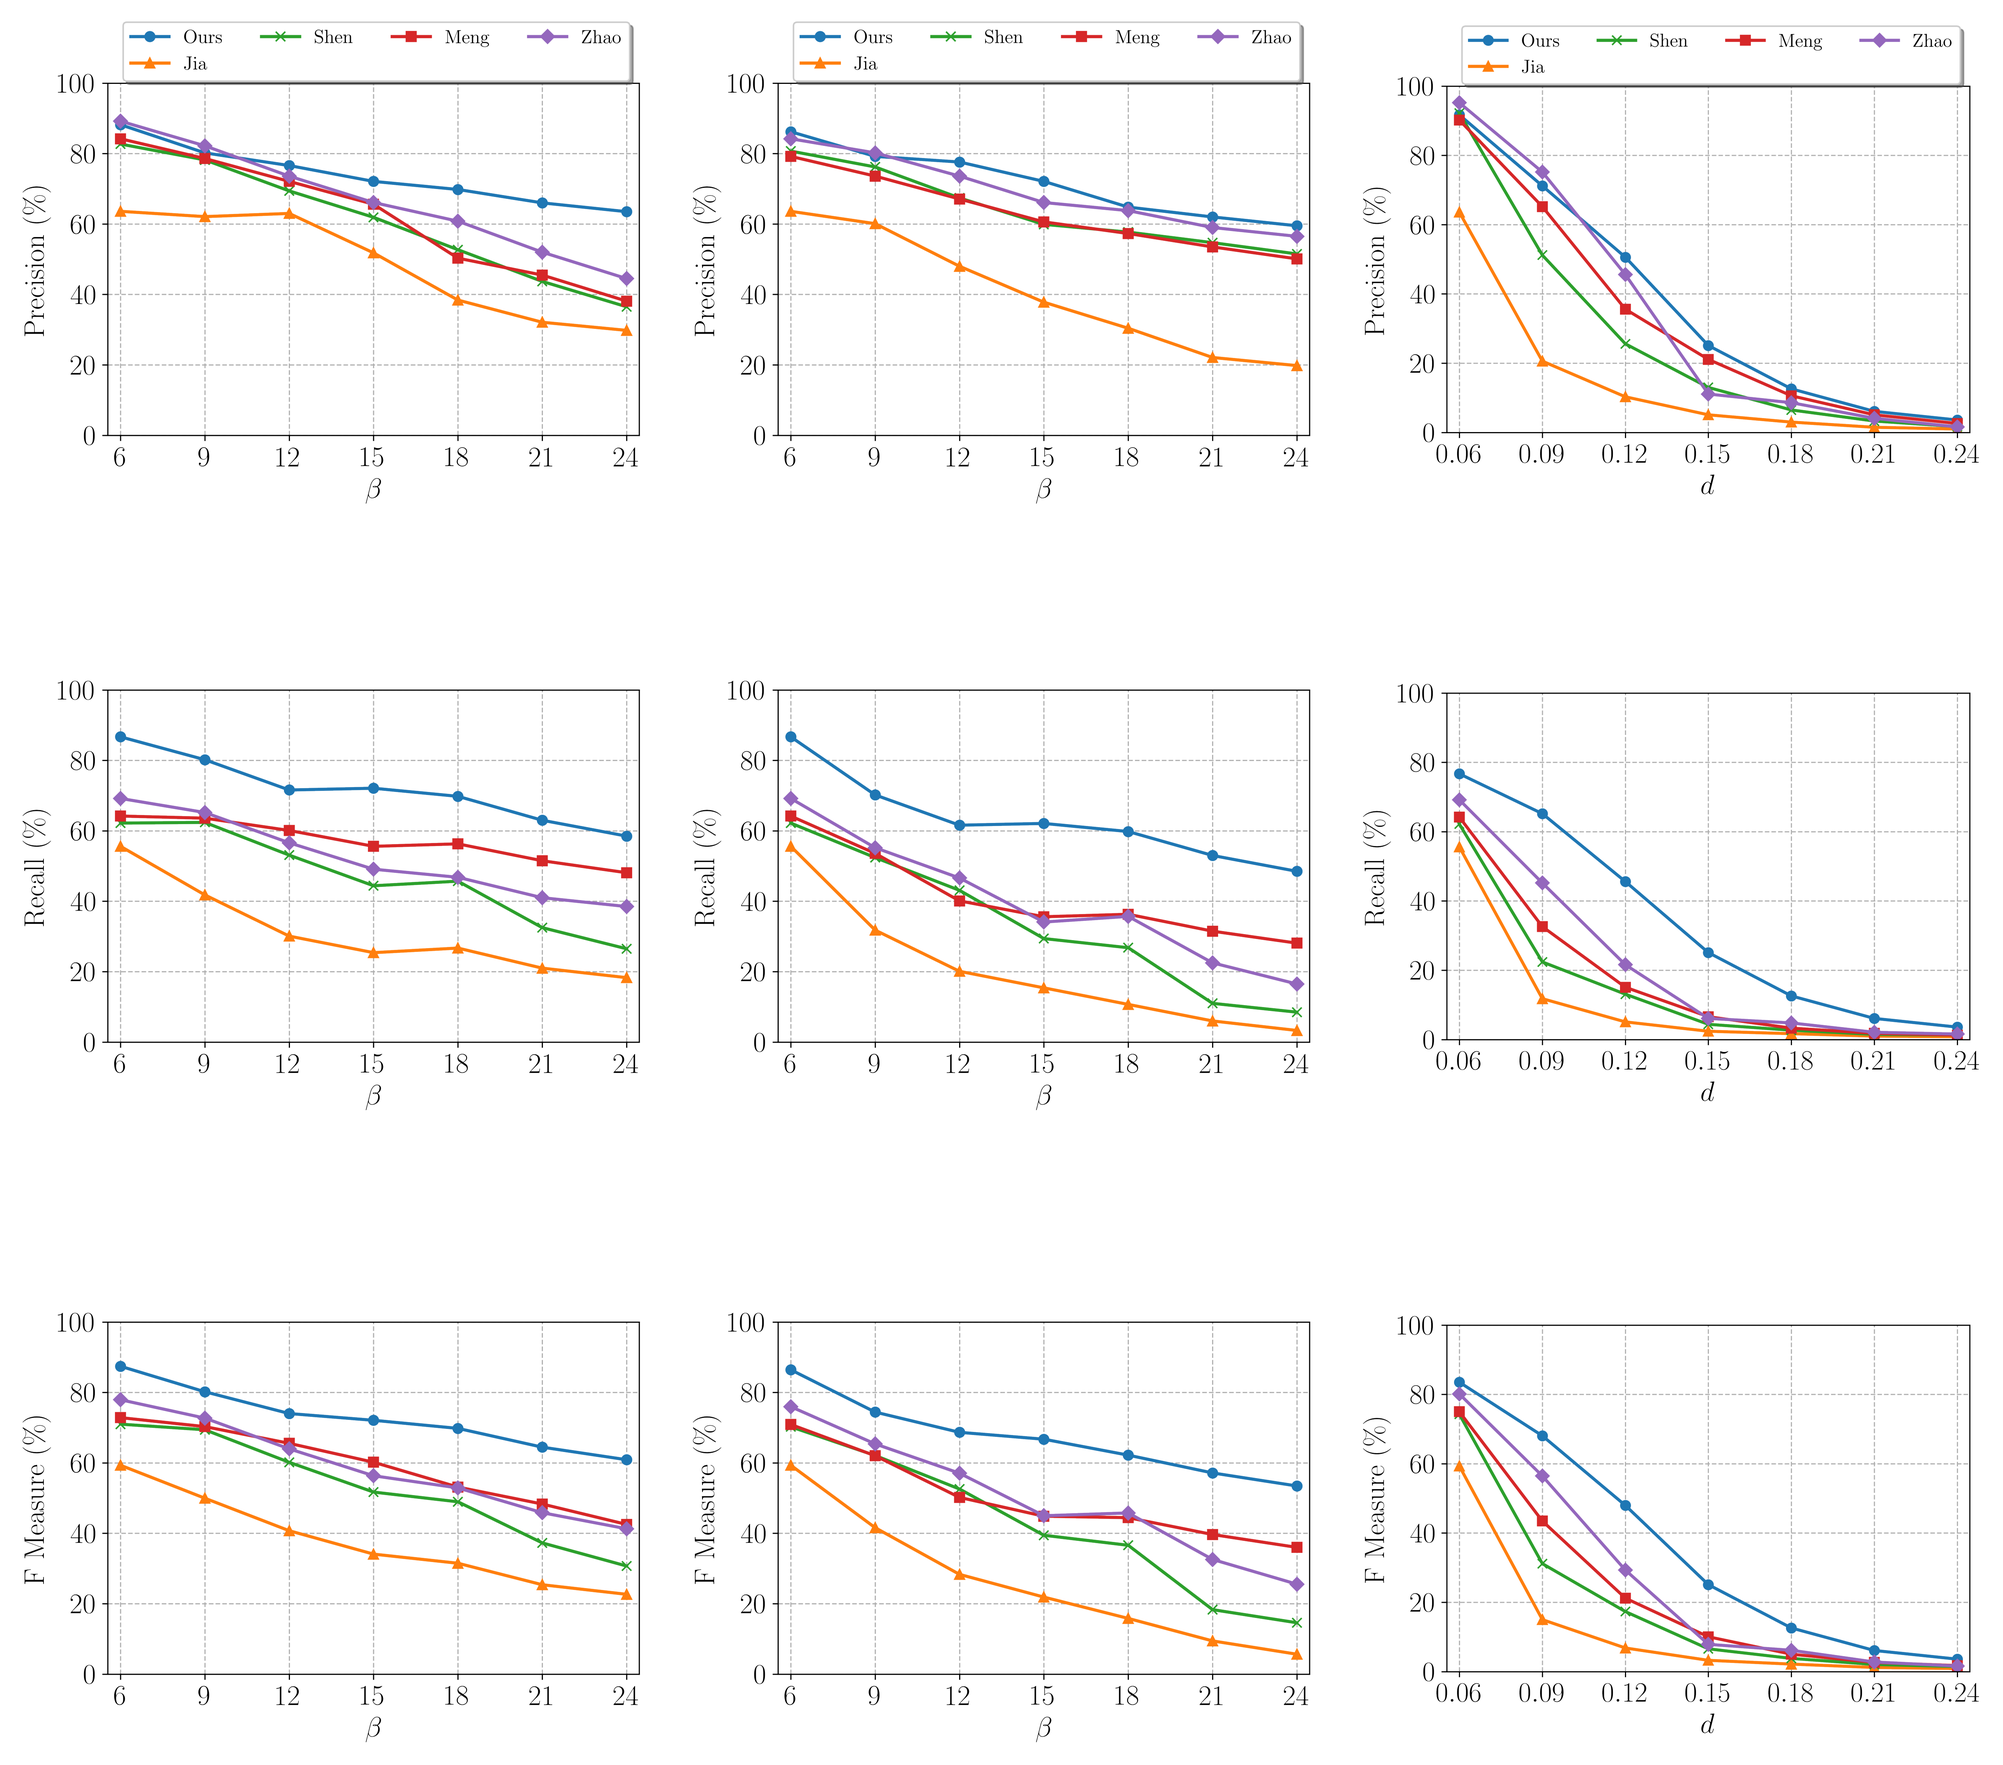
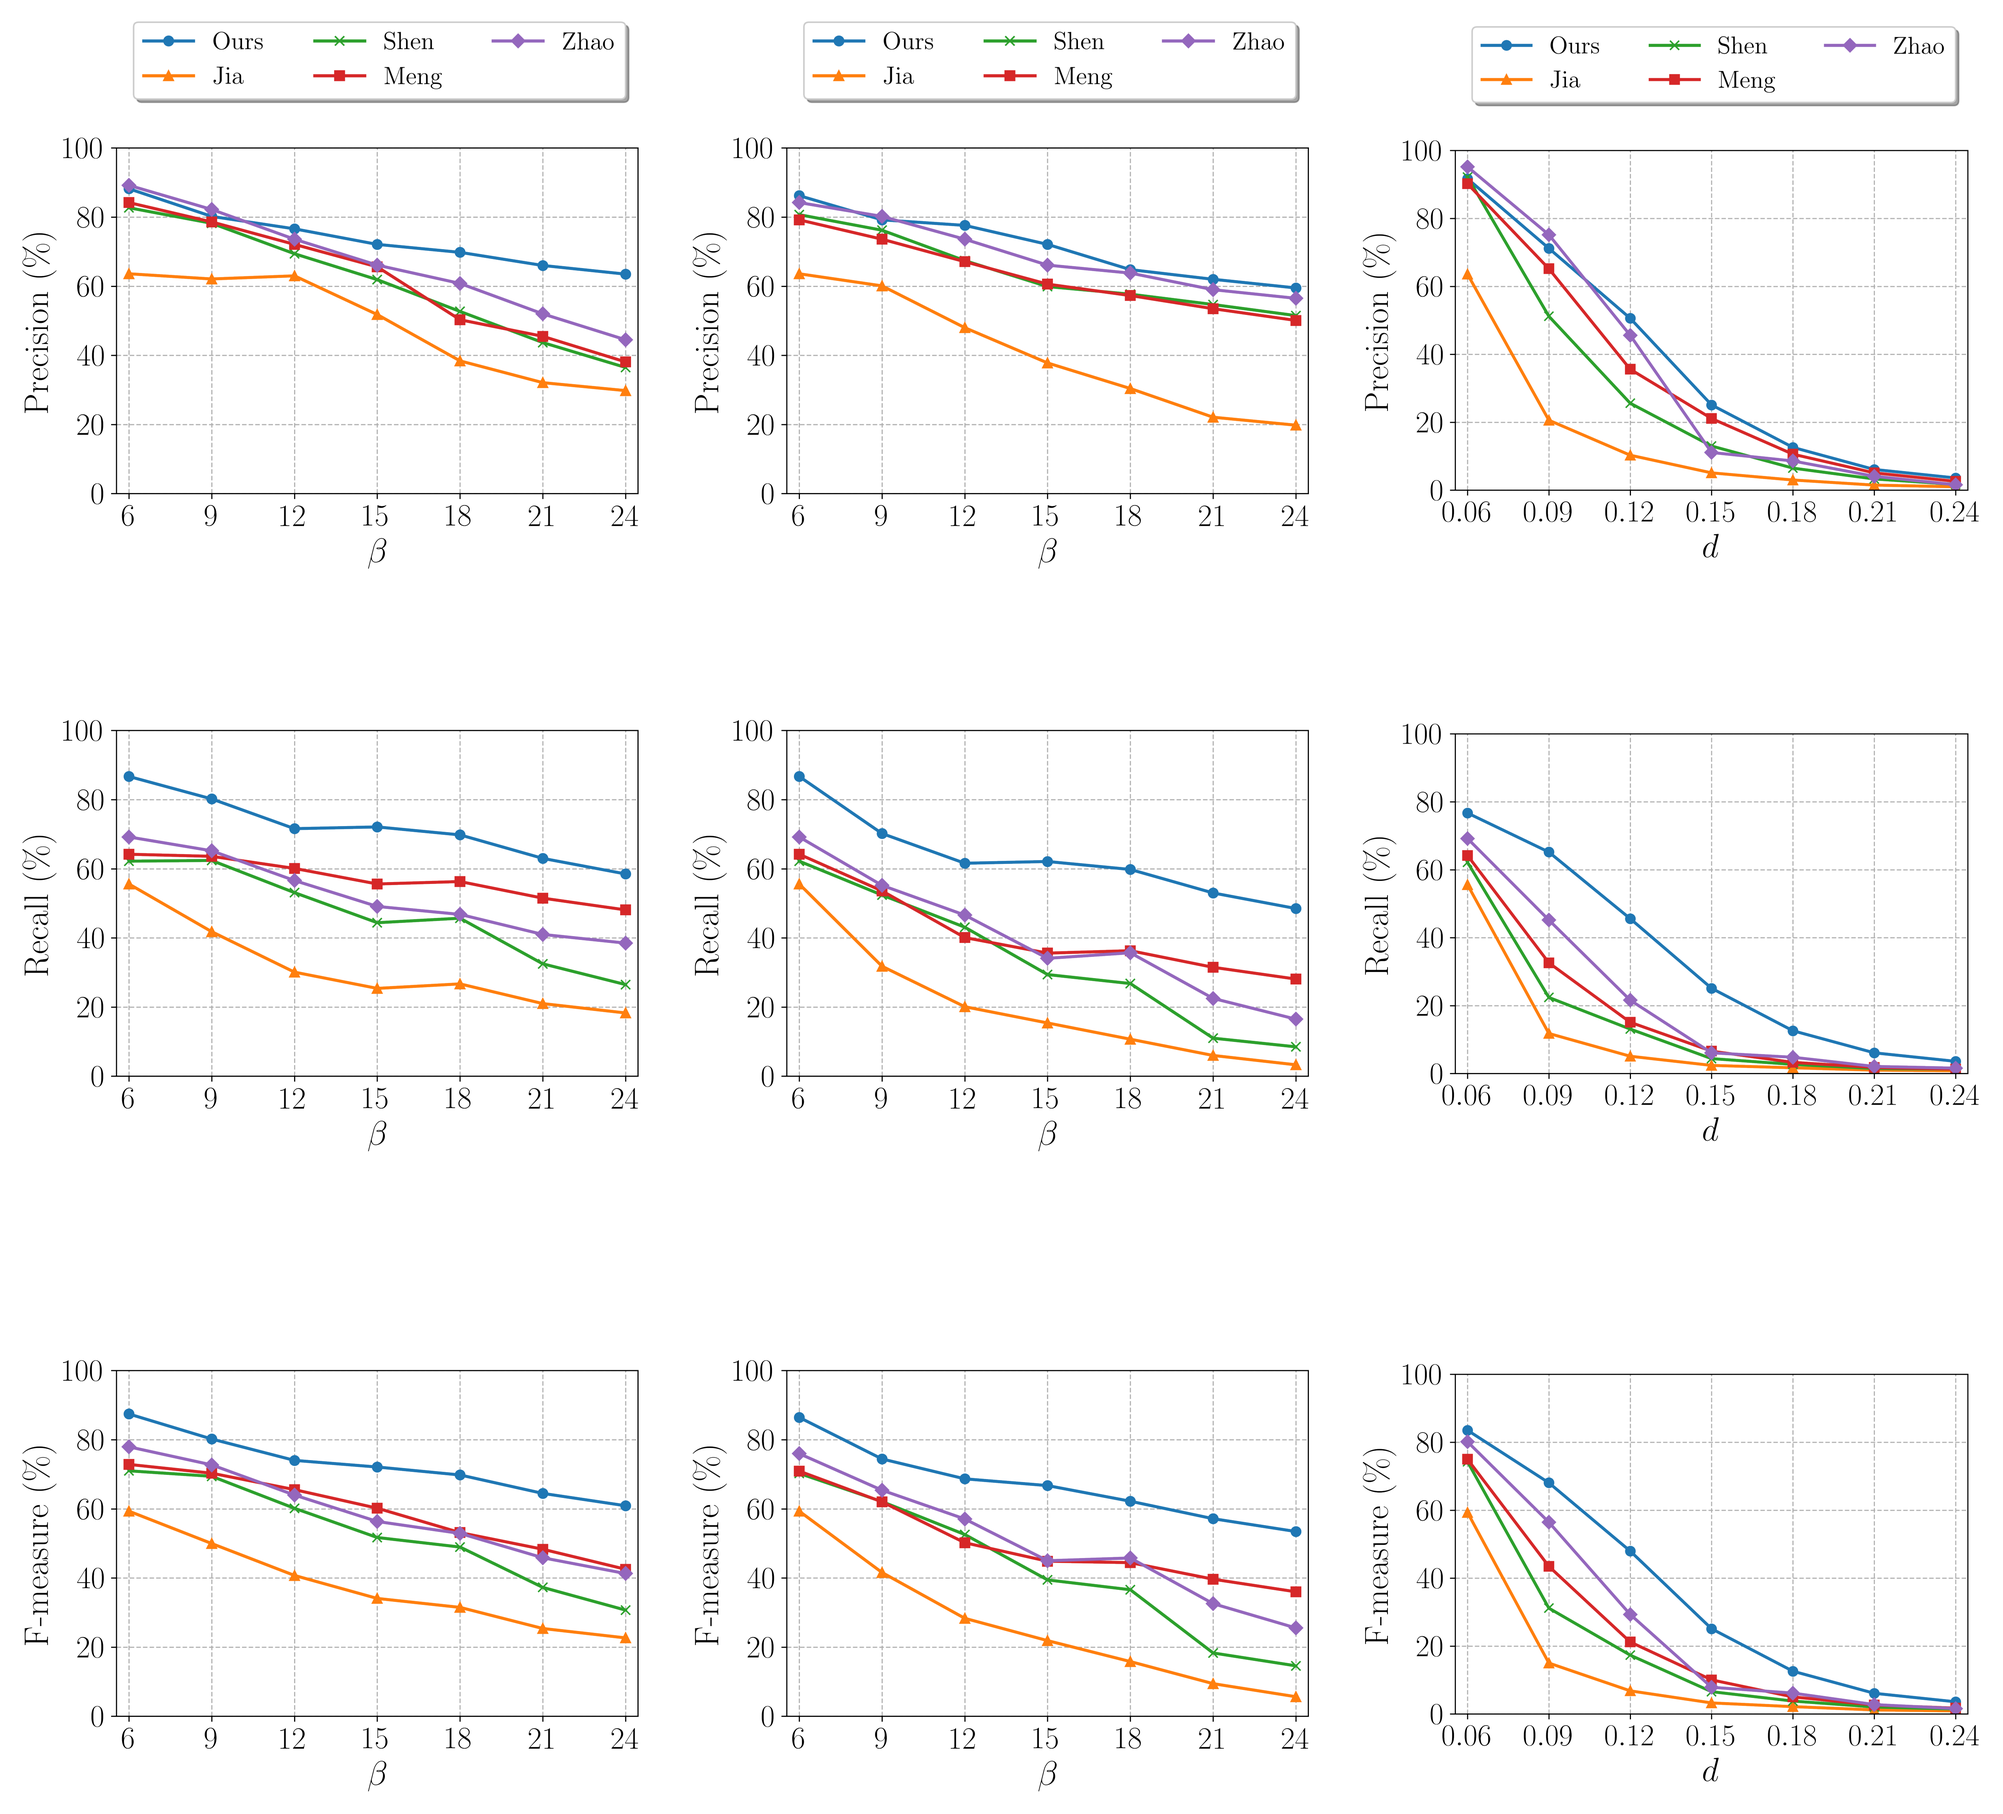
F-measure

diff --git a/draw.py b/draw.py
@@ -75,8 +75,8 @@ def plot_line_chart(args):
         )
 
     ax.grid(axis="both", linestyle="--", zorder=0)
-    ax.set_xlabel(xlabel)
-    ax.set_ylabel(ylabel)
+    ax.set_xlabel(xlabel, fontsize=22)
+    ax.set_ylabel(ylabel, fontsize=22)
 
     # Adjust x-axis limits to prevent edge point clipping
     x_range = xlim - xlimD
@@ -86,11 +86,11 @@ def plot_line_chart(args):
     ax.set_ylim(ylimD, ylim)
     ax.set_yticks(yticks)
 
-    ax.tick_params(axis="both", labelsize=18)
+    ax.tick_params(axis="both", labelsize=20)
 
     if legend:
-        plt.rc("legend", fontsize=12)
-        ax.legend(bbox_to_anchor=(1.0, 1.2), ncol=4, fancybox=True, shadow=True)
+        plt.rc("legend", fontsize=16)
+        ax.legend(bbox_to_anchor=(1.0, 1.4), ncol=3, fancybox=True, shadow=True)
 
     plt.savefig(f"pic/{pic_name}.png", dpi=600, bbox_inches="tight", transparent=True)
     plt.close(fig)
@@ -175,7 +175,7 @@ def generate_plots_data(
             data_fMeasure,
             f"F1_{param_name}{name_suffix}",
             xlabel,
-            r"F Measure (\%)",
+            r"F-measure (\%)",
             xlim,
             ylim,
             common_params["labellist"],
